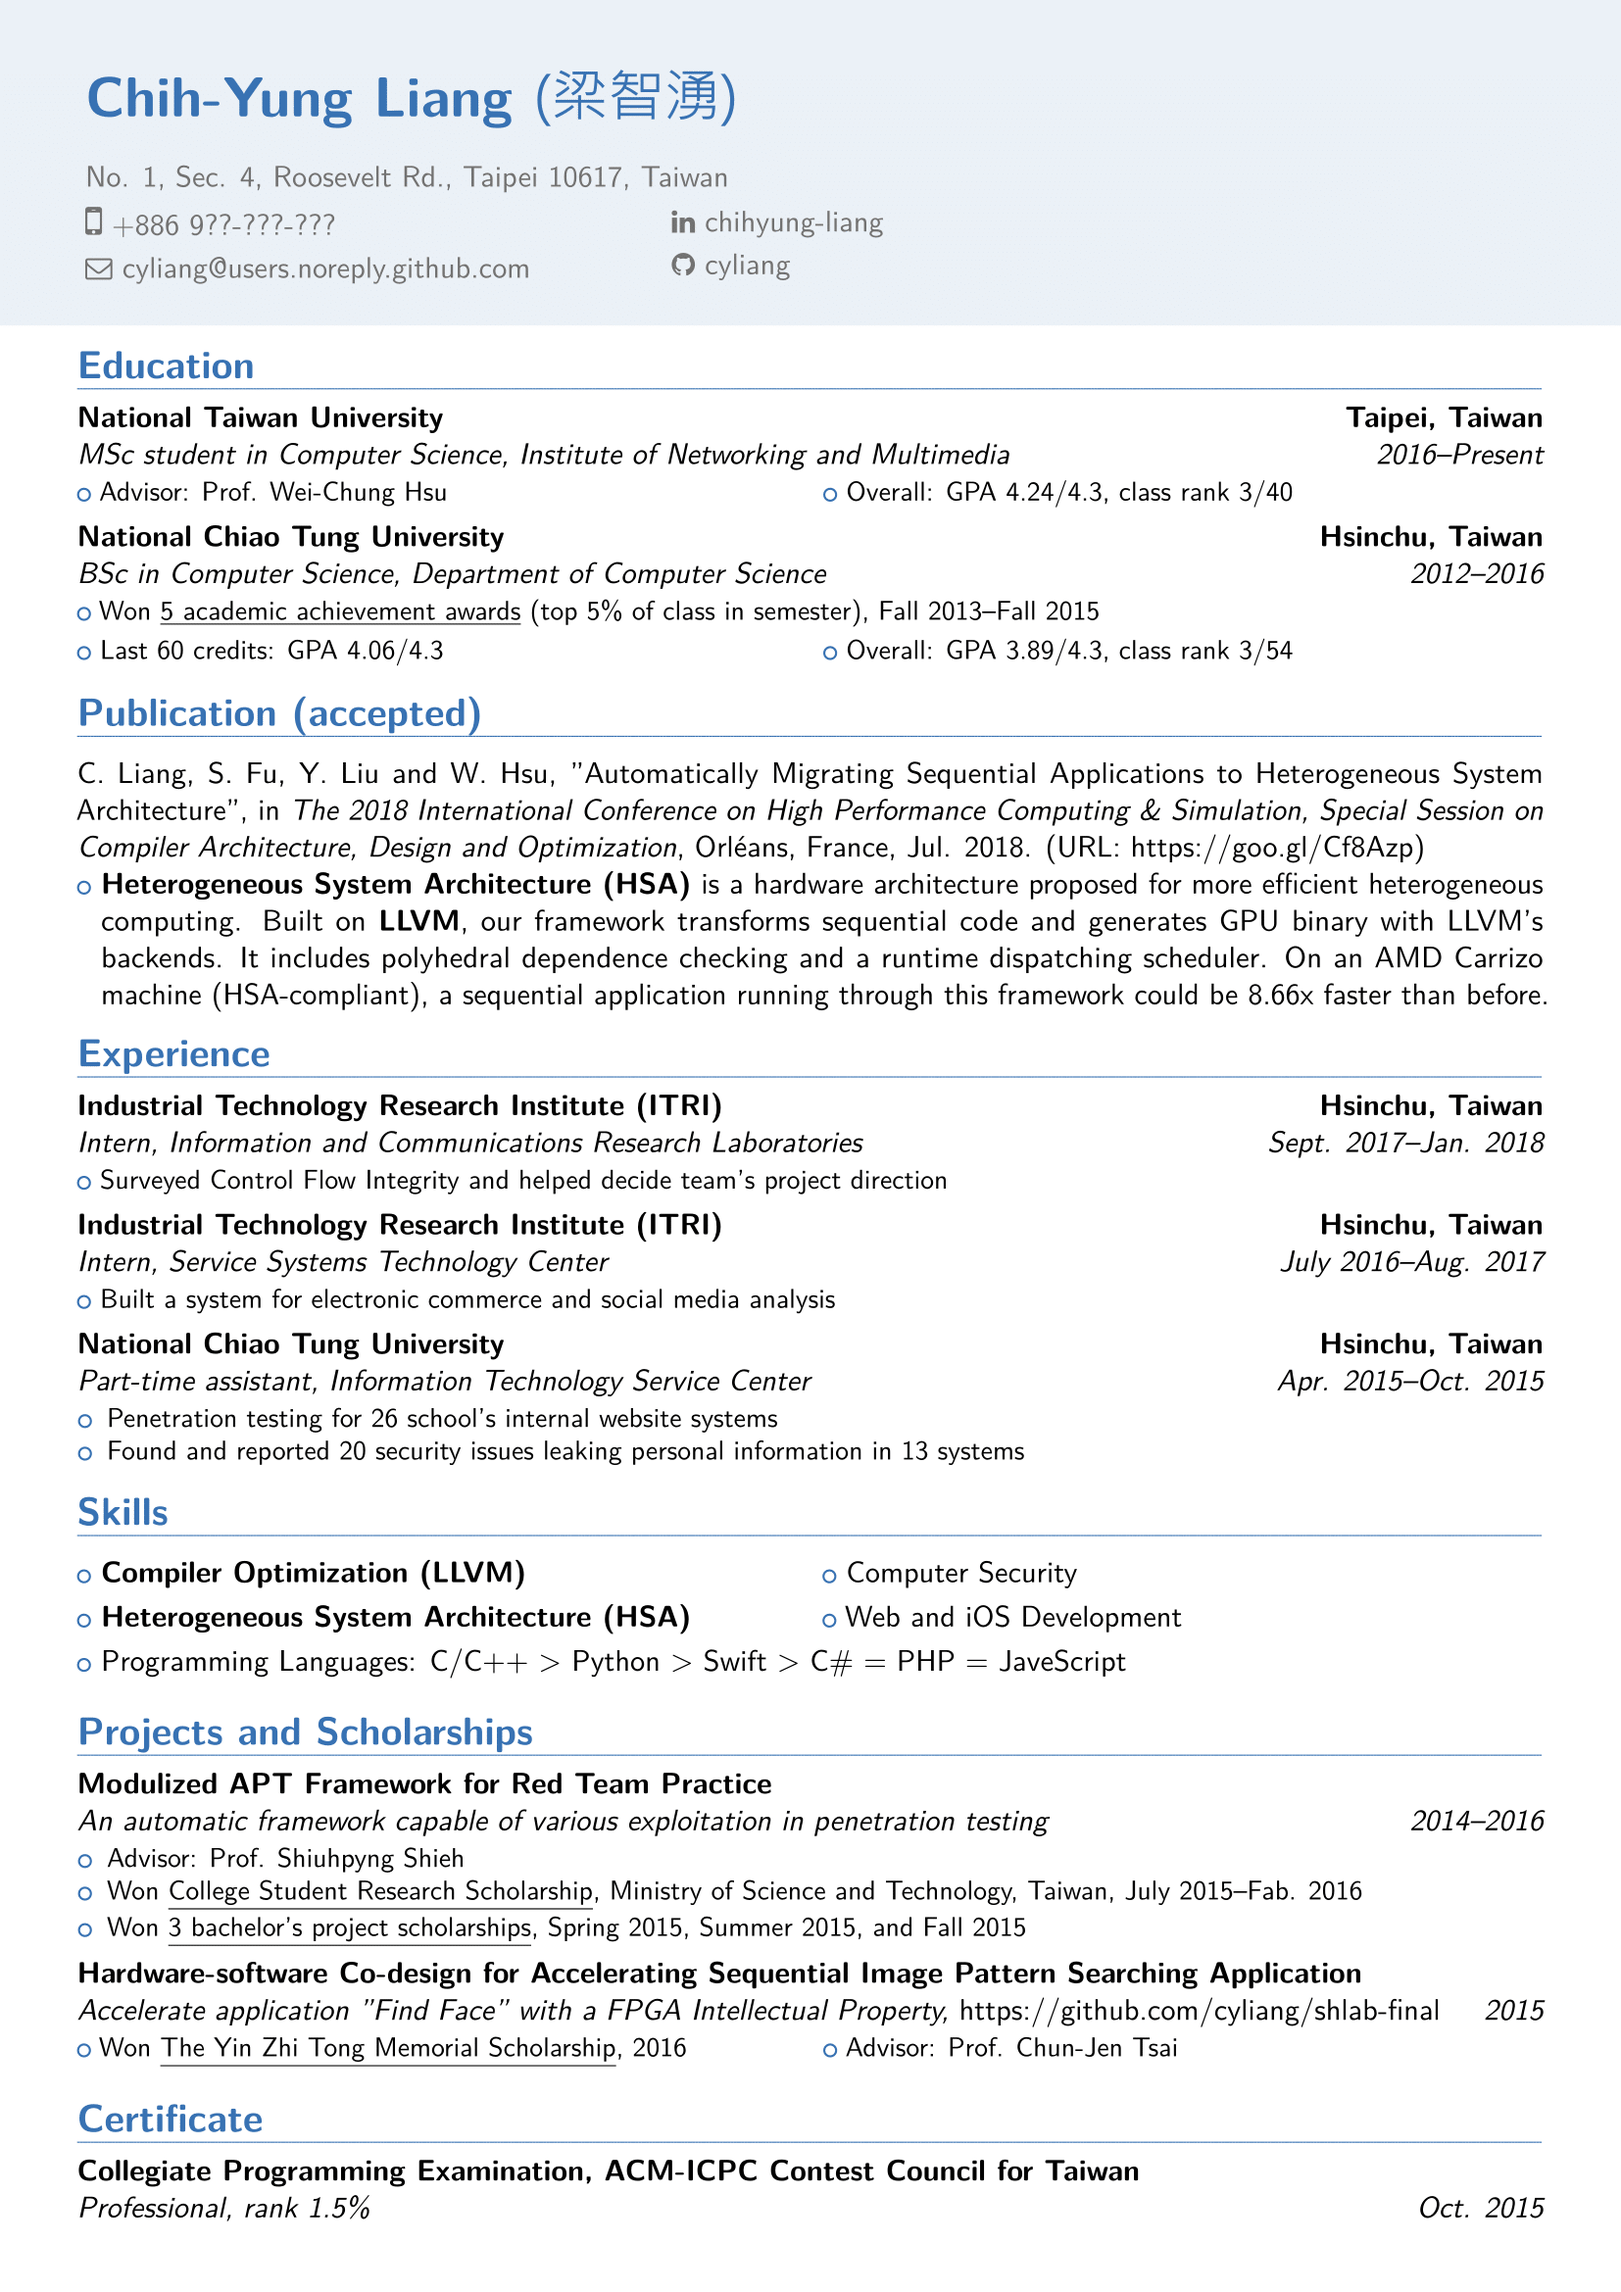
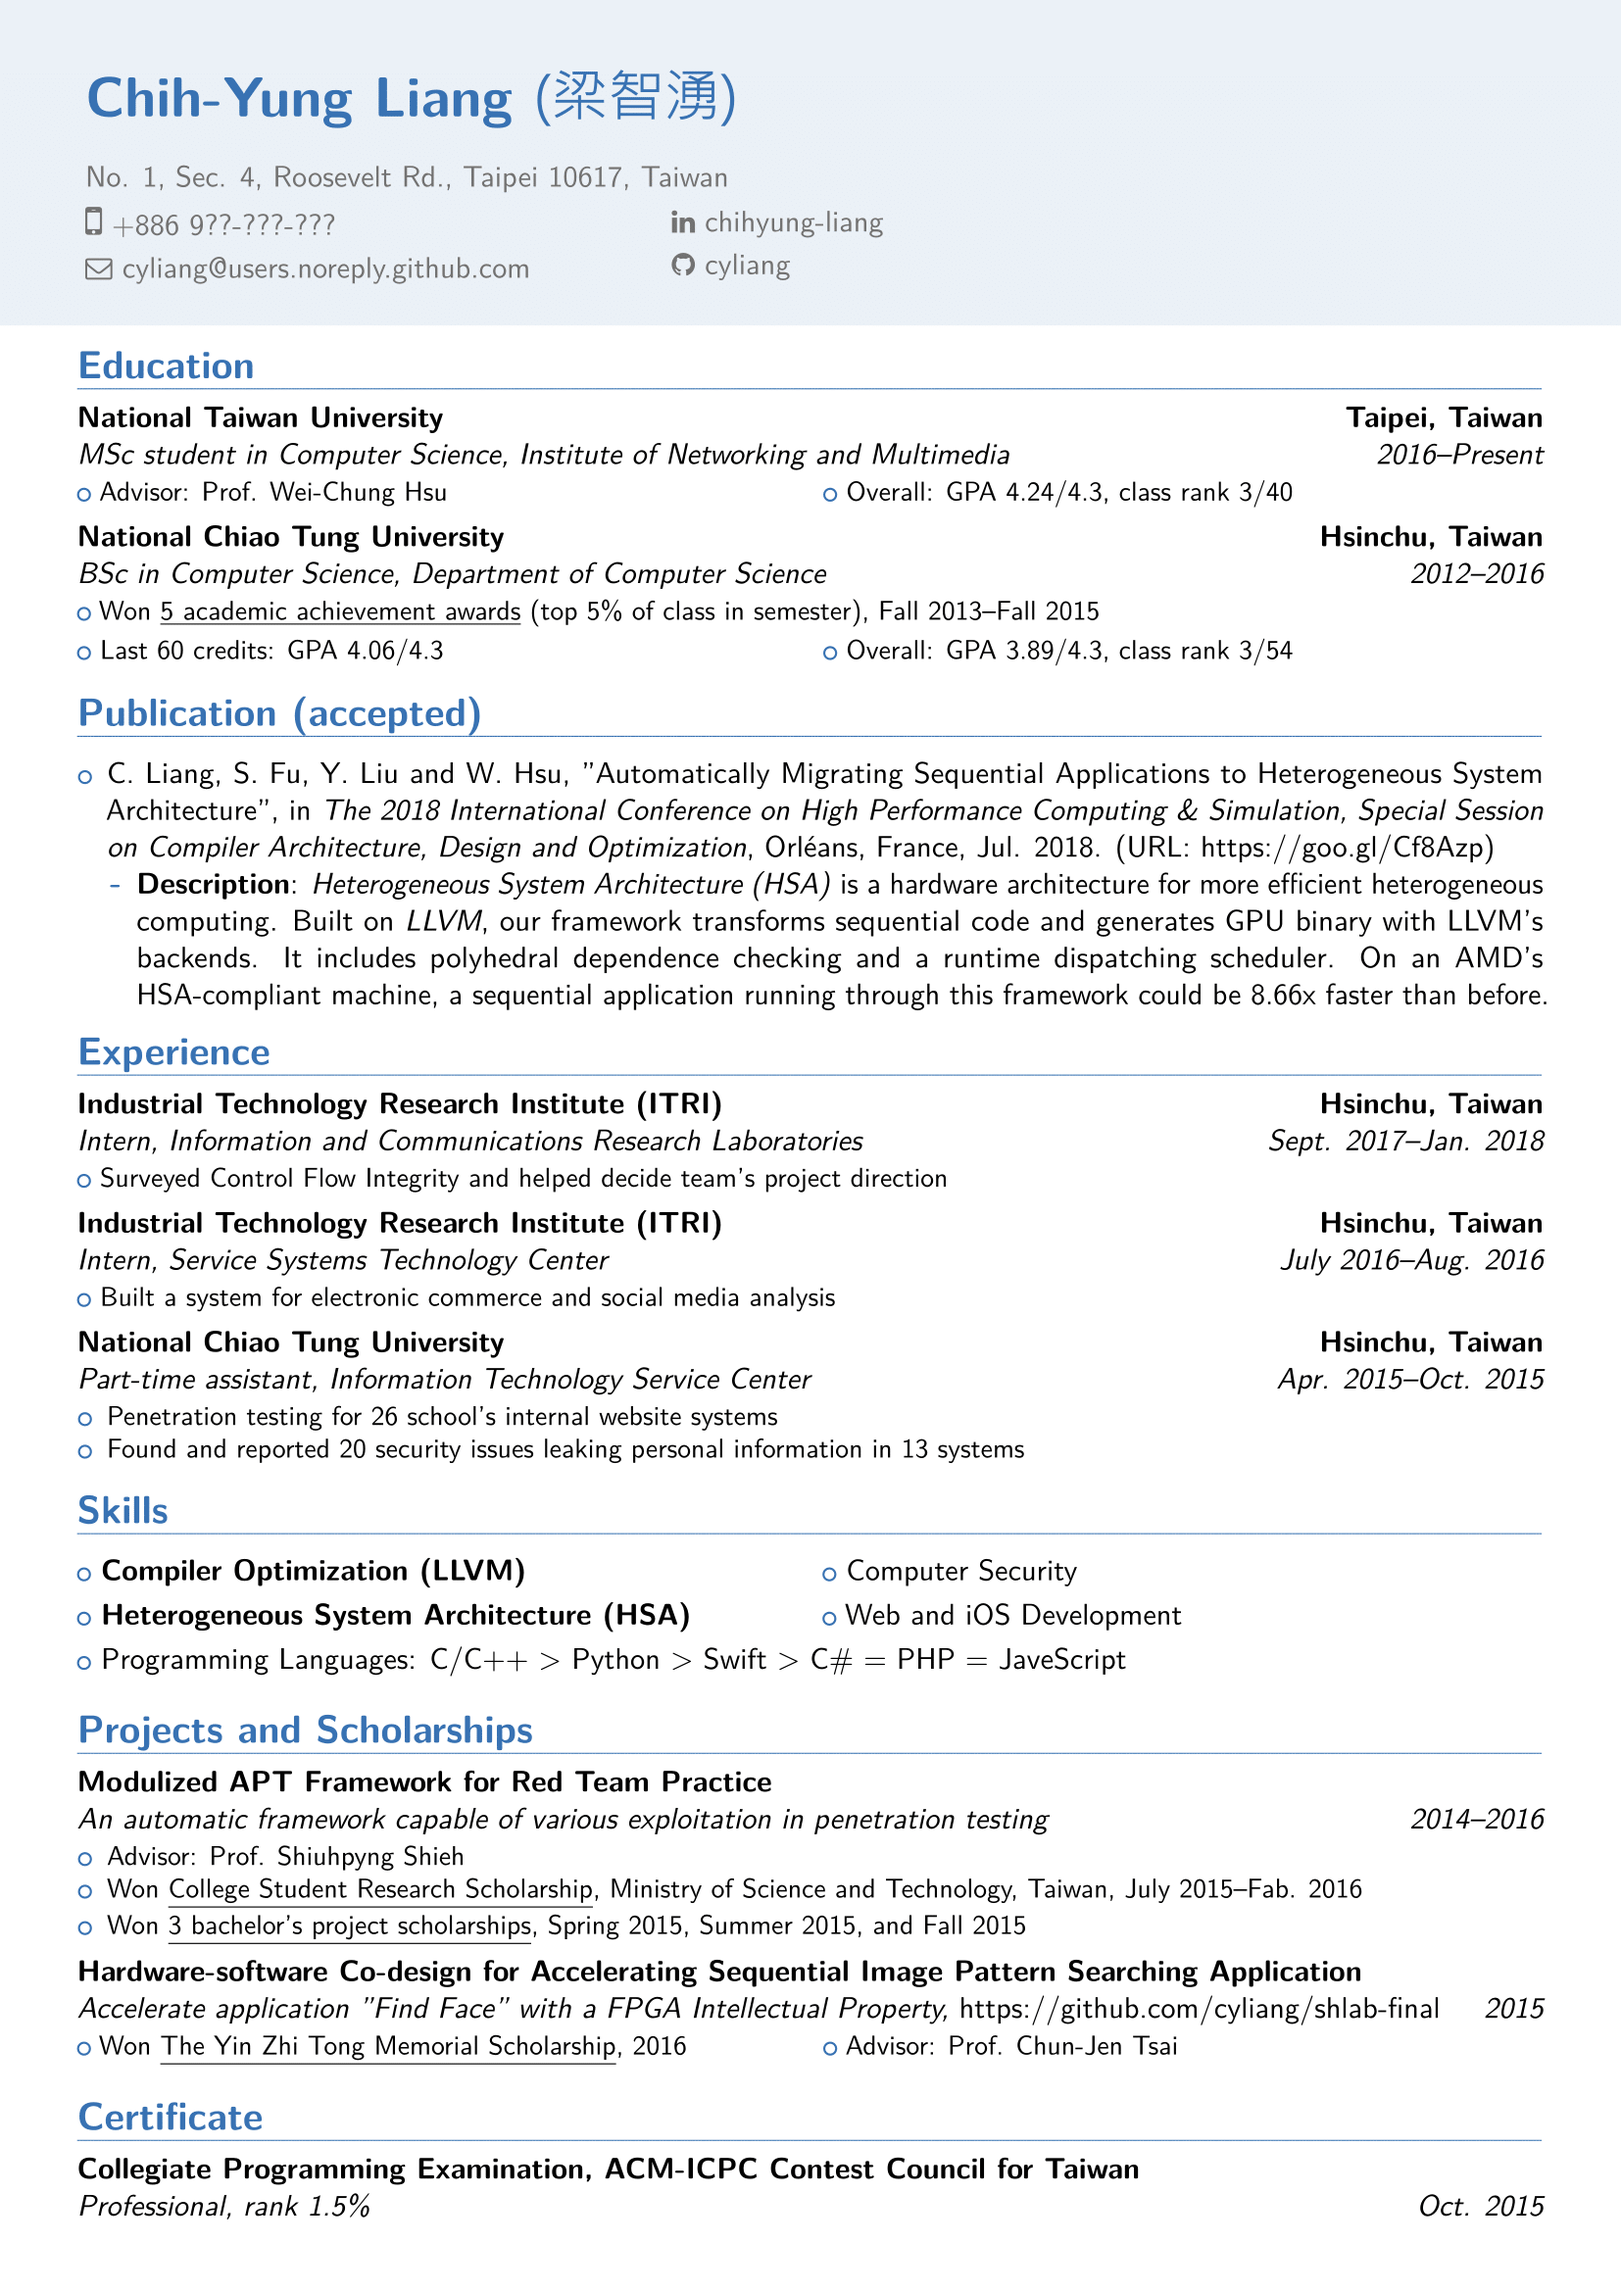
Adjust the look of publication description

diff --git a/document.tex b/document.tex
@@ -22,6 +22,14 @@
 }
 
 \begin{document}
+
+\hypersetup{
+    pdfauthor={Chih-Yung~Liang},
+    pdftitle={Chih-Yung~Liang's Resum\'{e}},
+    pdfsubject={Resum\'{e} of Chih-Yung~Liang},
+    pdfkeywords={Chih-Yung~Liang, resum\'{e}},
+}
+
 \makecvtitle
 
 \section{Education}
@@ -43,10 +51,14 @@
         \cvlistdoubleitem{Last 60 credits: GPA 4.06/4.3}{Overall: GPA 3.89/4.3, class rank 3/54}}
         
 \section{Publication (accepted)}
-    C. Liang, S. Fu, Y. Liu and W. Hsu, "Automatically Migrating Sequential Applications to Heterogeneous System Architecture", in \textit{The 2018 International Conference on High Performance Computing \& Simulation, Special Session on Compiler Architecture, Design and Optimization}, Orléans, France, Jul. 2018. (URL: \href{https://goo.gl/Cf8Azp}{https://goo.gl/Cf8Azp})
+    \begin{itemize}
+    \item C. Liang, S. Fu, Y. Liu and W. Hsu, "Automatically Migrating Sequential Applications to Heterogeneous System Architecture", in \textit{The 2018 International Conference on High Performance Computing \& Simulation, Special Session on Compiler Architecture, Design and Optimization}, Orléans, France, Jul. 2018. (URL: \href{https://goo.gl/Cf8Azp}{https://goo.gl/Cf8Azp})
+        \begin{itemize}
+        \item \textbf{Description}: \textit{Heterogeneous System Architecture (HSA)} is a hardware architecture for more efficient heterogeneous computing. Built on \textit{LLVM}, our framework transforms sequential code and generates GPU binary with LLVM's backends. It includes polyhedral dependence checking and a runtime dispatching scheduler. On an AMD's HSA-compliant machine, a sequential application running through this framework could be 8.66x faster than before.
+        \end{itemize}
+    \end{itemize}
     
-    \cvlistitem{\textbf{Heterogeneous System Architecture (HSA)} is a hardware architecture proposed for more efficient heterogeneous computing. Built on \textbf{LLVM}, our framework transforms sequential code and generates GPU binary with LLVM's backends. It includes polyhedral dependence checking and a runtime dispatching scheduler. On an AMD Carrizo machine (HSA-compliant), a sequential application running through this framework could be 8.66x faster than before.}
-
+\vspace{-5pt}
 \section{Experience}
     \cventry
         {Sept. 2017--Jan. 2018} % period
@@ -57,7 +69,7 @@
         {\cvlistitem{Surveyed Control Flow Integrity and helped decide team's project direction}} % short description
 
     \cventry
-        {July 2016--Aug. 2017}
+        {July 2016--Aug. 2016}
         {Intern}
         {Industrial Technology Research Institute (ITRI)}
         {Hsinchu, Taiwan}
